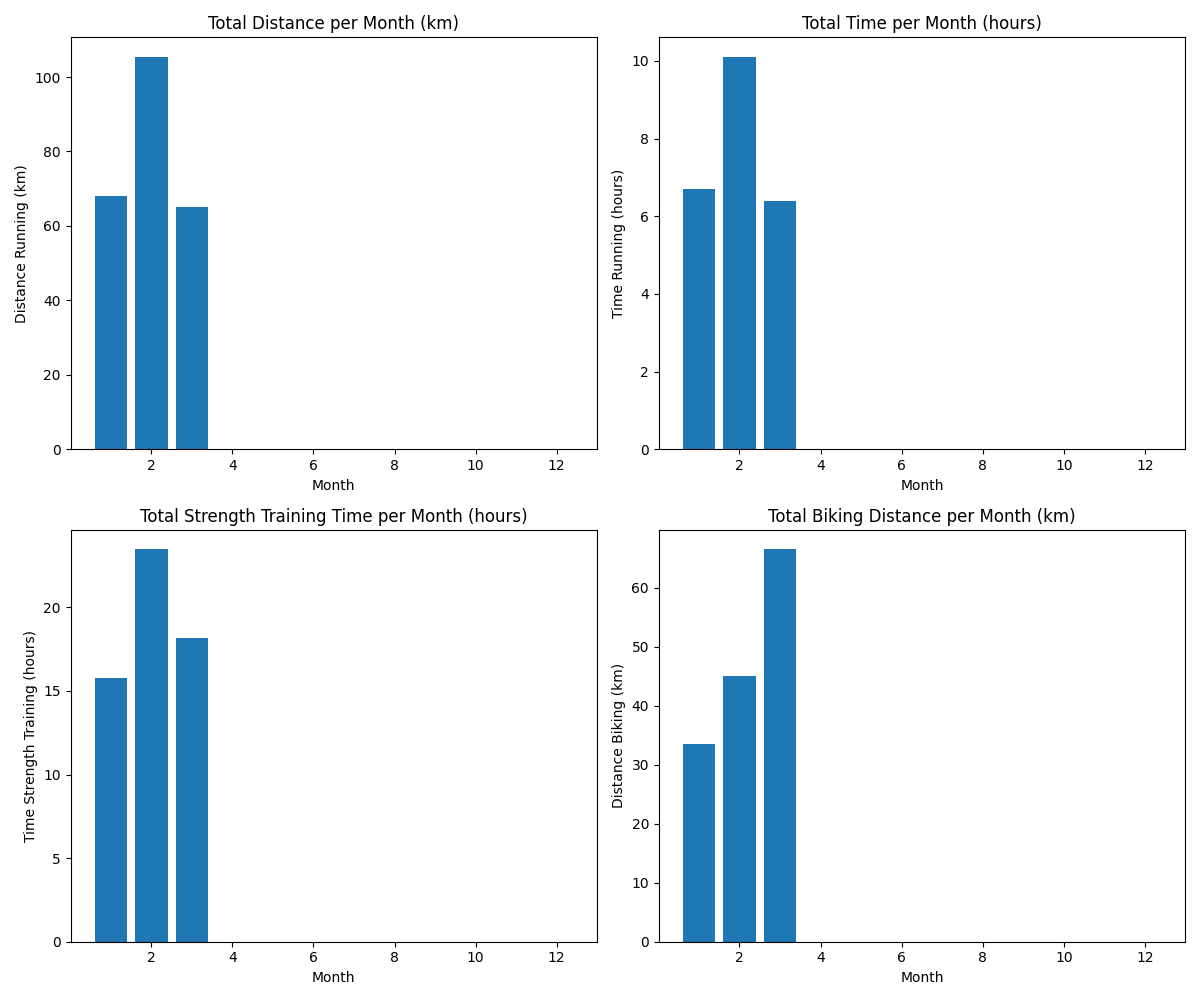
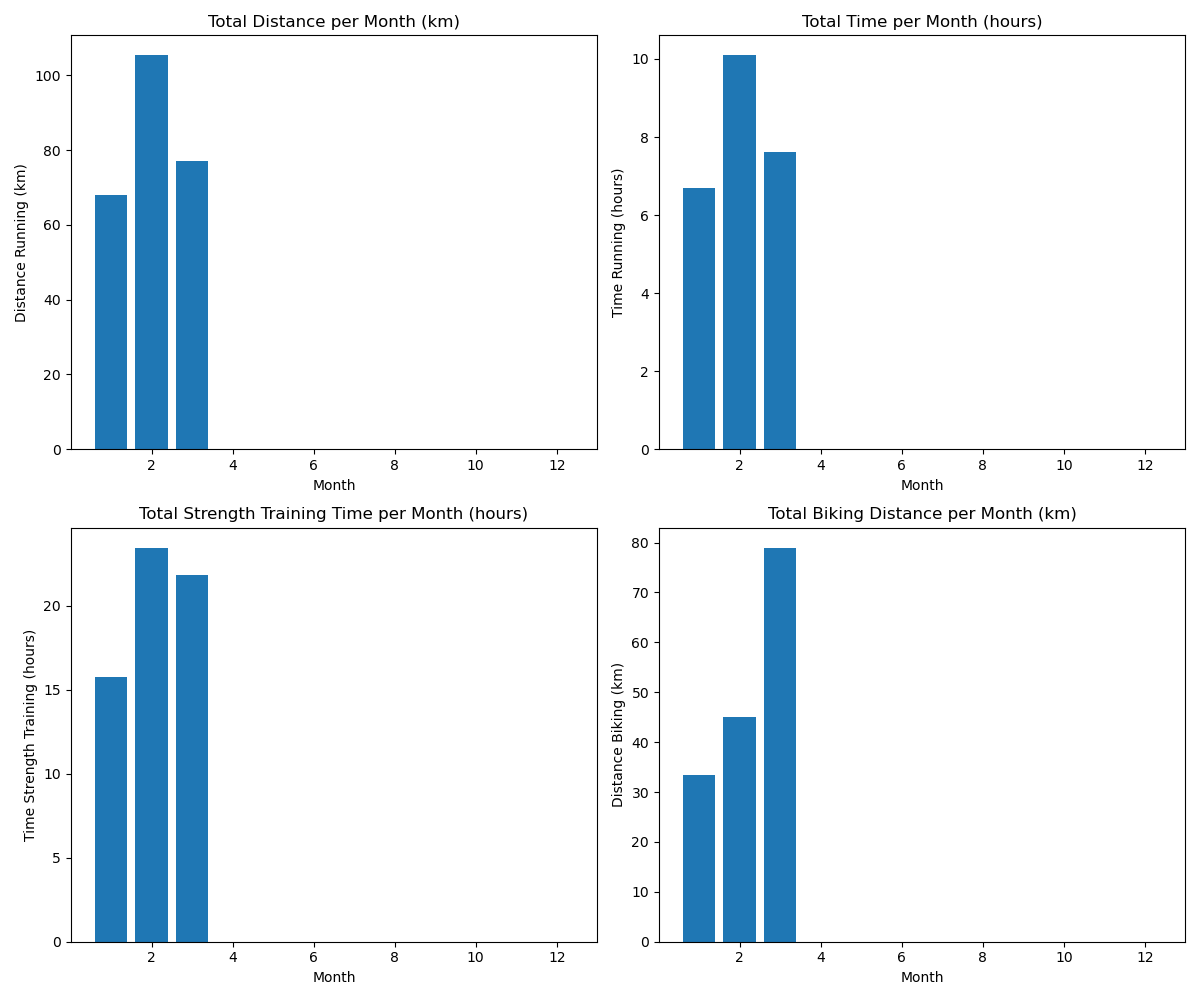
sport update 29.3

diff --git a/Sport/Sport_2026_report.md b/Sport/Sport_2026_report.md
@@ -3,20 +3,20 @@
 ## Sport Counts
 | type   |   count |
 |:-------|--------:|
-| F      |      66 |
+| F      |      70 |
 | K      |       5 |
 | L      |       1 |
-| Total  |      72 |
+| Total  |      76 |
 
 ## Summary
-- **Total distance run on treadmill:** 232.40 km
+- **Total distance run on treadmill:** 244.40 km
 - **Total distance run outside:** 6.14 km
-- **Total distance cycled:** 145.00 km
+- **Total distance cycled:** 157.50 km
 - **Total distance swimming:** 0.00 km
-- **Total time spent on strength training:** 57h 24min
+- **Total time spent on strength training:** 61h 04min
 
 ## Average Speeds
-- **Treadmill running:** 10.39 km/h
+- **Treadmill running:** 10.33 km/h
 - **Outside running:** 10.96 km/h
-- **Cycling:** 23.38 km/h
+- **Cycling:** 23.43 km/h
 - **Swimming:** nan km/h
